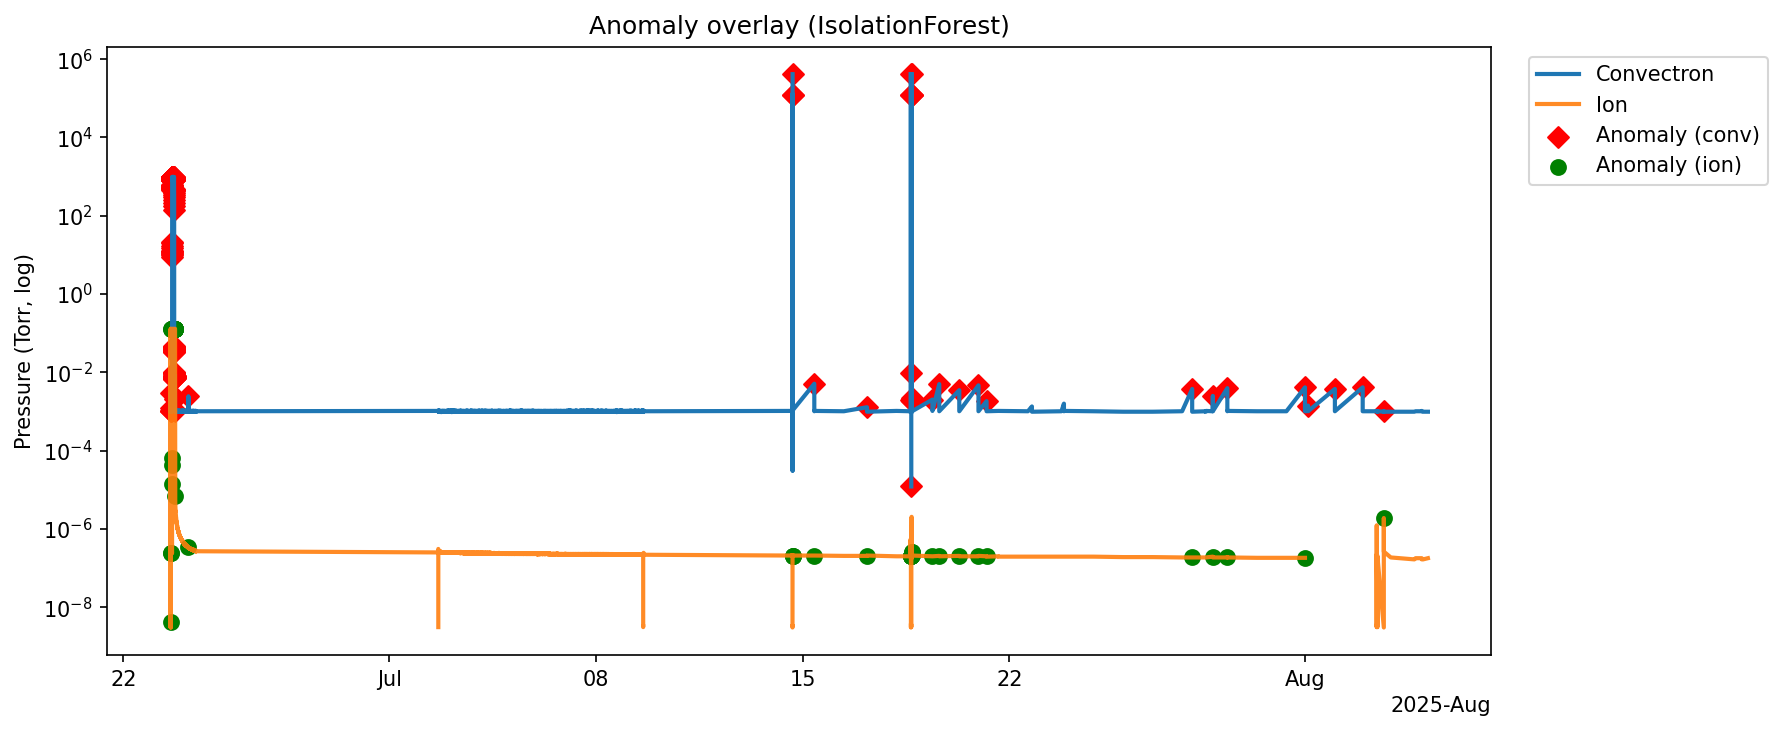
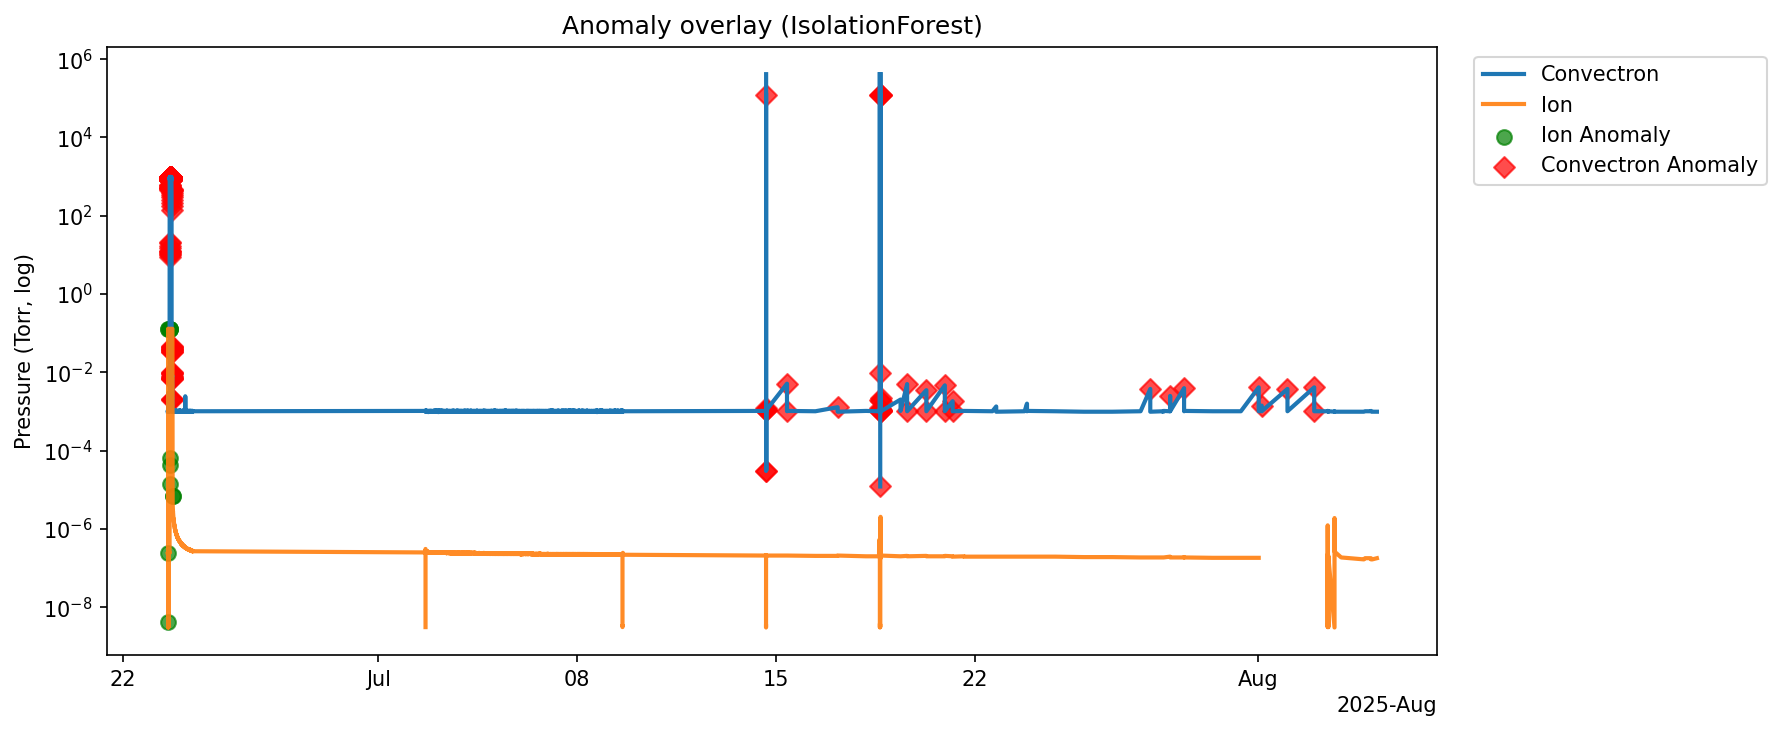
plots updated

diff --git a/src/plotting.py b/src/plotting.py
@@ -201,41 +201,53 @@ def plot_anomalies(df: pd.DataFrame, title: str = "Anomaly overlay", savepath: P
     ax.plot(df["datetime"], df["pressure_conv"], label="Convectron", lw=2)
     ax.plot(df["datetime"], df["pressure_ion"], label="Ion", lw=2, alpha=0.9)
 
-    # Highlight anomalies (Isolation Forest: -1 is anomaly)
-    mask = df.get("anomaly_if", pd.Series(index=df.index, dtype=int)) == -1
-    ax.scatter(df.loc[mask, "datetime"], df.loc[mask, "pressure_conv"], label="Anomaly (conv)", s=50, color="red", marker="D")
-    ax.scatter(df.loc[mask, "datetime"], df.loc[mask, "pressure_ion"], label="Anomaly (ion)", s=50, color="green", marker="o")
-
+    # Highlight anomalies ion 
+    ion_anomalies = df[df["anomaly_if_ion"] == -1]
+    ax.scatter(ion_anomalies["datetime"], ion_anomalies["pressure_ion"],
+               label="Ion Anomaly", color="green", marker="o", s=50, alpha=0.7)
+    # Highlight anomalies convectron
+    conv_anomalies = df[df["anomaly_if_conv"] == -1]
+    ax.scatter(conv_anomalies["datetime"], conv_anomalies["pressure_conv"],
+               label="Convectron Anomaly", color="red", marker="D", s=50, alpha=0.7)
+    
     ax.set_yscale("log")
     ax.set_ylabel("Pressure (Torr, log)")
     ax.set_title(title)
     _format_time_axis(ax)
     ax.legend(bbox_to_anchor=(1.02, 1), loc="upper left")
+    plt.grid()
     plt.tight_layout()
     if savepath:
         savepath.parent.mkdir(parents=True, exist_ok=True)
         plt.savefig(savepath, dpi=150, bbox_inches="tight")
     plt.show()
 
-def plot_tag_anomalies(df: pd.DataFrame, title: str = "Anomalies with Tags", savepath: Path | None = None):
+
+def plot_tag_anomalies(df: pd.DataFrame, title: str = "Tagged Anomalies", savepath: Path | None = None):
     fig, ax = plt.subplots(figsize=(12, 5))
-    ax.plot(df["datetime"], df["pressure_conv"], label="Convectron", lw=2)
-    ax.plot(df["datetime"], df["pressure_ion"], label="Ion", lw=2, alpha=0.9)
-    
-    # plot anomaly_ion and anomaly_conv as scatter points
-    mask_ion = df.get("anomaly_if_ion", pd.Series(index=df.index, dtype=int)) == -1
-    mask_conv = df.get("anomaly_if_conv", pd.Series(index=df.index, dtype=int)) == -1
-    ax.scatter(df.loc[mask_ion, "datetime"], df.loc[mask_ion, "pressure_ion"], 
-               label="Anomaly Ion", s=50, color="red", marker="D")
-    ax.scatter(df.loc[mask_conv, "datetime"], df.loc[mask_conv, "pressure_conv"], 
-               label="Anomaly Convectron", s=50, color="blue", marker="o")
-     
-    '''
-        # Add tags as vertical lines
-        for tag in CH_TAGS:
-            tag_mask = df[tag]
-            if tag_mask.any():
-                ax.axvline(x=df.loc[tag_mask, "datetime"].iloc[0], color='orange', linestyle='--', label=f"{tag} event")'''
+    ax.plot(df["datetime"], df["pressure_conv"], label="Convectron", lw=2, alpha=0.8)
+    ax.plot(df["datetime"], df["pressure_ion"], label="Ion", lw=2, alpha=0.8)
+
+    # Map anomaly categories to colors/markers
+    anomaly_styles = {
+        "operational": {"color": "green", "marker": "s"},
+        "unexpected": {"color": "red", "marker": "x"},
+        "normal": None,
+    }
+
+    # Plot ion anomalies
+    for category, style in anomaly_styles.items():
+        if style:
+            mask = df["anomaly_ion"] == category
+            ax.scatter(df.loc[mask, "datetime"], df.loc[mask, "pressure_ion"],
+                       label=f"Ion {category}", s=50, **style)
+
+    # Plot convectron anomalies
+    for category, style in anomaly_styles.items():
+        if style:
+            mask = df["anomaly_conv"] == category
+            ax.scatter(df.loc[mask, "datetime"], df.loc[mask, "pressure_conv"],
+                       label=f"Convectron {category}", s=50, **style)
 
     ax.set_yscale("log")
     ax.set_ylabel("Pressure (Torr, log)")
@@ -244,7 +256,9 @@ def plot_tag_anomalies(df: pd.DataFrame, title: str = "Anomalies with Tags", sav
     plt.grid()
     ax.legend(bbox_to_anchor=(1.02, 1))
     plt.tight_layout()
+
     if savepath:
         savepath.parent.mkdir(parents=True, exist_ok=True)
         plt.savefig(savepath, dpi=150, bbox_inches="tight")
+
     plt.show()
